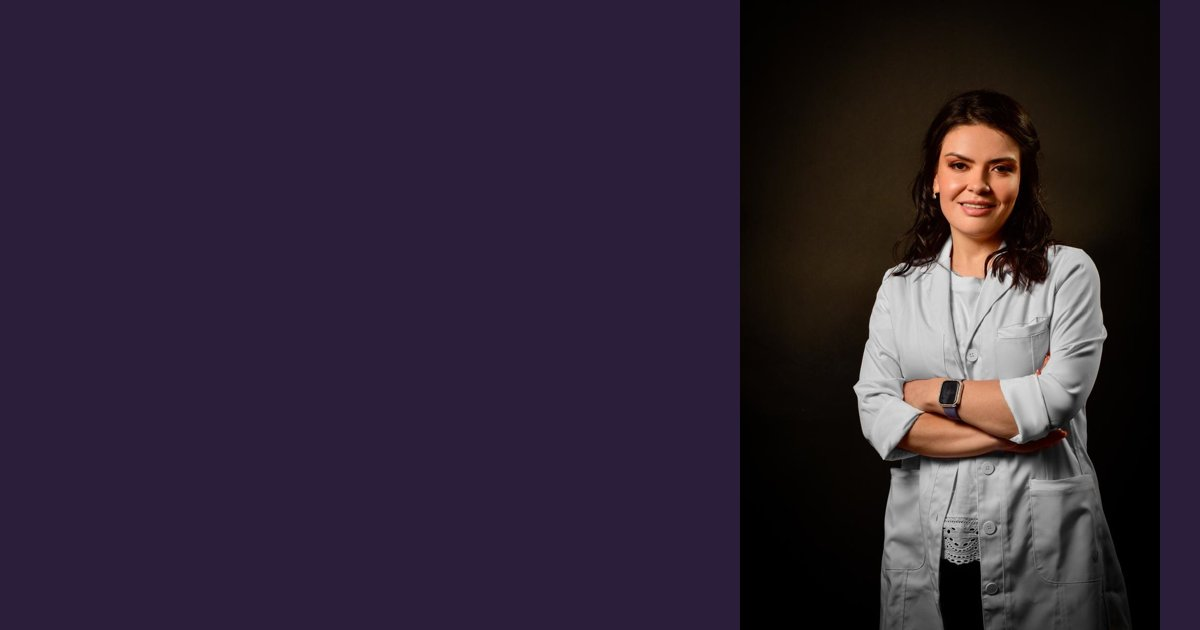
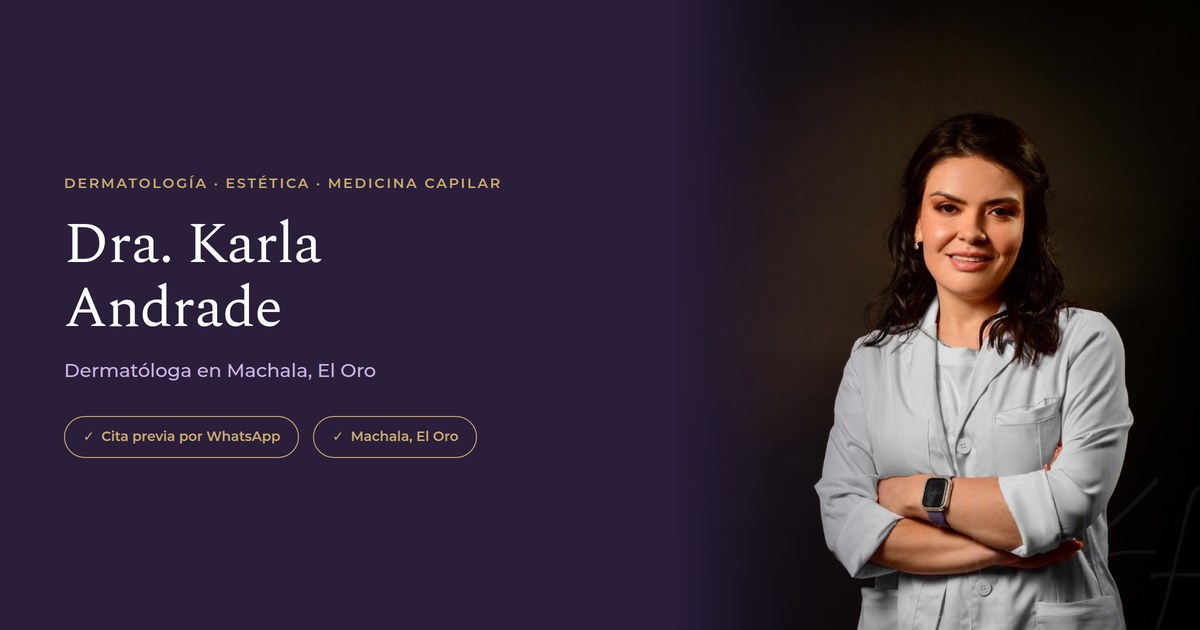
Rediseñar la imagen de vista previa (Open Graph) y sumar etiquetas Twitter/X
- Nueva og.jpg (1200x630): antes solo tenía la foto sobre fondo ciruela,
  sin texto. Ahora incluye etiqueta de especialidad, nombre, rol
  ("Dermatóloga en Machala, El Oro") y dos píldoras con info real del
  consultorio (cita previa por WhatsApp, ubicación) — mismos colores y
  tipografías del sitio, sin inventar servicios que no existen.
- src/app/layout.tsx: agrega metadatos de Twitter/X (summary_large_image)
  reutilizando el mismo título/descripción/imagen de Open Graph.

El favicon y las etiquetas Open Graph base ya existían de antes; solo
faltaba completar la imagen. Verificado que og:image resuelve a la URL
absoluta correcta y que el favicon se sirve bien.

Claude-Session: https://claude.ai/code/session_01K53g1B7n19TLkyq2ByZJmp

diff --git a/src/app/layout.tsx b/src/app/layout.tsx
@@ -51,6 +51,13 @@ export const metadata: Metadata = {
       "Medicina de la piel con criterio: clínica, pediátrica, oncológica, capilar y estética. Formación internacional (UBA).",
     images: [{ url: "/og.jpg", width: 1200, height: 630 }]
   },
+  twitter: {
+    card: "summary_large_image",
+    title: "Dra. Karla Andrade · Dermatóloga en Machala",
+    description:
+      "Medicina de la piel con criterio: clínica, pediátrica, oncológica, capilar y estética. Formación internacional (UBA).",
+    images: ["/og.jpg"]
+  },
   robots: { index: true, follow: true }
 };
 
